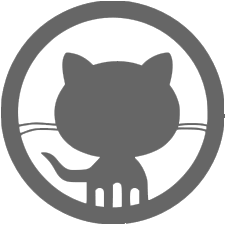
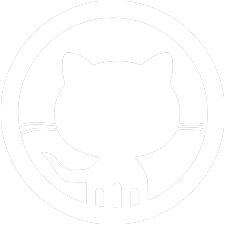
more updates

diff --git a/CSS/style.css b/CSS/style.css
@@ -20,6 +20,7 @@ body {
 	bottom:0;
 	right: 0;
 	left: 0;
+	filter:brightness(90%);
 }
 .navbar {
 	position: fixed;
@@ -27,8 +28,8 @@ body {
 	height: 50px;
 	line-height: 50px;
 	background-color: rgba(255,255,255,0);
-	box-shadow: 0 1px 2px 0 rgba(0, 0, 0, 0.1);  
 	z-index:2;
+	transition: all 0.3s;
 }
 .contacts{
     position:absolute;
@@ -37,14 +38,14 @@ body {
 	white-space: nowrap;
 }
 .contacts a{
-    padding-right:10px;
+    padding-right:18px;
     cursor: pointer;
 }
 .contacts a img:hover{
-    filter:brightness(10%);
+    filter:brightness(90%);
 }
 .contacts a img{
-    width:20px;
+    width:30px;
     transition: all 0.3s;
 }
 
@@ -55,8 +56,8 @@ body {
 	position: absolute;
 	top: 0;
 	left: 0px;
-	font-size: 20px;
-	color: #666;
+	font-size: 25px;
+	color: rgb(255, 255, 255);
 	padding-left: 20px;
 	cursor: pointer;
 	/* 加过渡 */
@@ -64,23 +65,23 @@ body {
 	white-space: nowrap;
 }
 .navbar label:hover {
-    filter:brightness(10%);
+	filter:brightness(80%);
 }
 .navbar label span{
     position: relative;
     width:100%;
-    font-size:20px;
+    font-size:25px;
     padding-left: 30px;
-    color:rgba(102,102,102,1);
+    color:rgb(255, 255, 255);
     transition: all 0.3s;
 }
 .navbar ul {
 	position: fixed;
 	top: 0;
-	left: -200px;
-	width: 200px;
+	left: -300px;
+	width: 300px;
 	height: 100vh;
-	background-color: rgba(255,255,255,90%);
+	background-color: rgba(250, 250, 250, 0.97);
 	transition: all 0.3s;
 }
 .navbar ul li {
@@ -94,16 +95,18 @@ body {
 	align-items: center;
 	flex-direction: column;
 	width: 100%;
-	height: 150px;
-	padding: 10px;
+	height: 200px;
+	padding: 0px;
+	border-bottom: 1px solid rgba(0, 0, 0,0.6);
 }
 .navbar ul li:first-child img {
 	width: 80px;
-    padding-top:10px;
-    padding-bottom:5px;
+    padding-top:30px;
+    padding-bottom:10px;
+
 }
 .navbar ul li:first-child span {
-	color: #fff;
+	color: rgb(0, 0, 0);
 	font-size: 14px;
 	white-space: nowrap;
 }
@@ -112,7 +115,7 @@ body {
 	align-items: center;
 	width: 100%;
 	height: 100%;
-	color: #d2d2d2;
+	color: #000000;
 	text-decoration: none;
 	border-left: 6px solid transparent;
 }
@@ -126,17 +129,17 @@ body {
     padding-left: 10px;
 }
 .navbar ul li a:hover {
-	color: #fff;
+	color: rgb(100, 100, 100);
 	border-left-color: #002ba0;
 }
 .navbar input:checked + label {
-	left: 200px;
+	left: 300px;
 }
 .navbar input:checked + label i {
 	transform: rotateY(180deg);
 }
 .navbar input:checked + label span {
-	color:rgba(102, 102, 102,0);
+	color:rgba(255, 255, 255, 0);
 }
 .navbar input:checked ~ ul {
 	left: 0px;

diff --git a/homepage.html b/homepage.html
@@ -9,6 +9,13 @@
 		<link rel="stylesheet" href="https://cdnjs.cloudflare.com/ajax/libs/font-awesome/4.7.0/css/font-awesome.min.css">
 		<link rel="stylesheet" href="CSS/style.css">
 	</head>
+	<script type="text/javascript">
+		saying=['The More We Learn The Less We Know', '音无结弦之时 立于浮华之世', 'Stay Hungry Stay Foolish', '听说樱花飘落的速度是秒速五厘米哦','嗨 海绵宝宝 我们去抓水母吧','秋深し 情けは人の ためならず','世界上 没有一拳解决不了的事 如果有 那就两拳', '我秃了 我也变强了'];
+		ran=Math.floor(Math.random()*saying.length);
+		function dictum(){
+			document.write(saying[ran]);
+		}
+	</script>
 	<body>
 		<div class="background"></div>
 		<div class="navbar">
@@ -26,6 +33,7 @@
 			<ul>
 				<li>
 					<img src="homepage-pix/ProfilePhoto.png" alt="这是我的头像，别摸了X">
+					<span id="xiaowai"><script>dictum()</script></span>
 				</li>
 				<li>
 					<a href="homepage.html">
